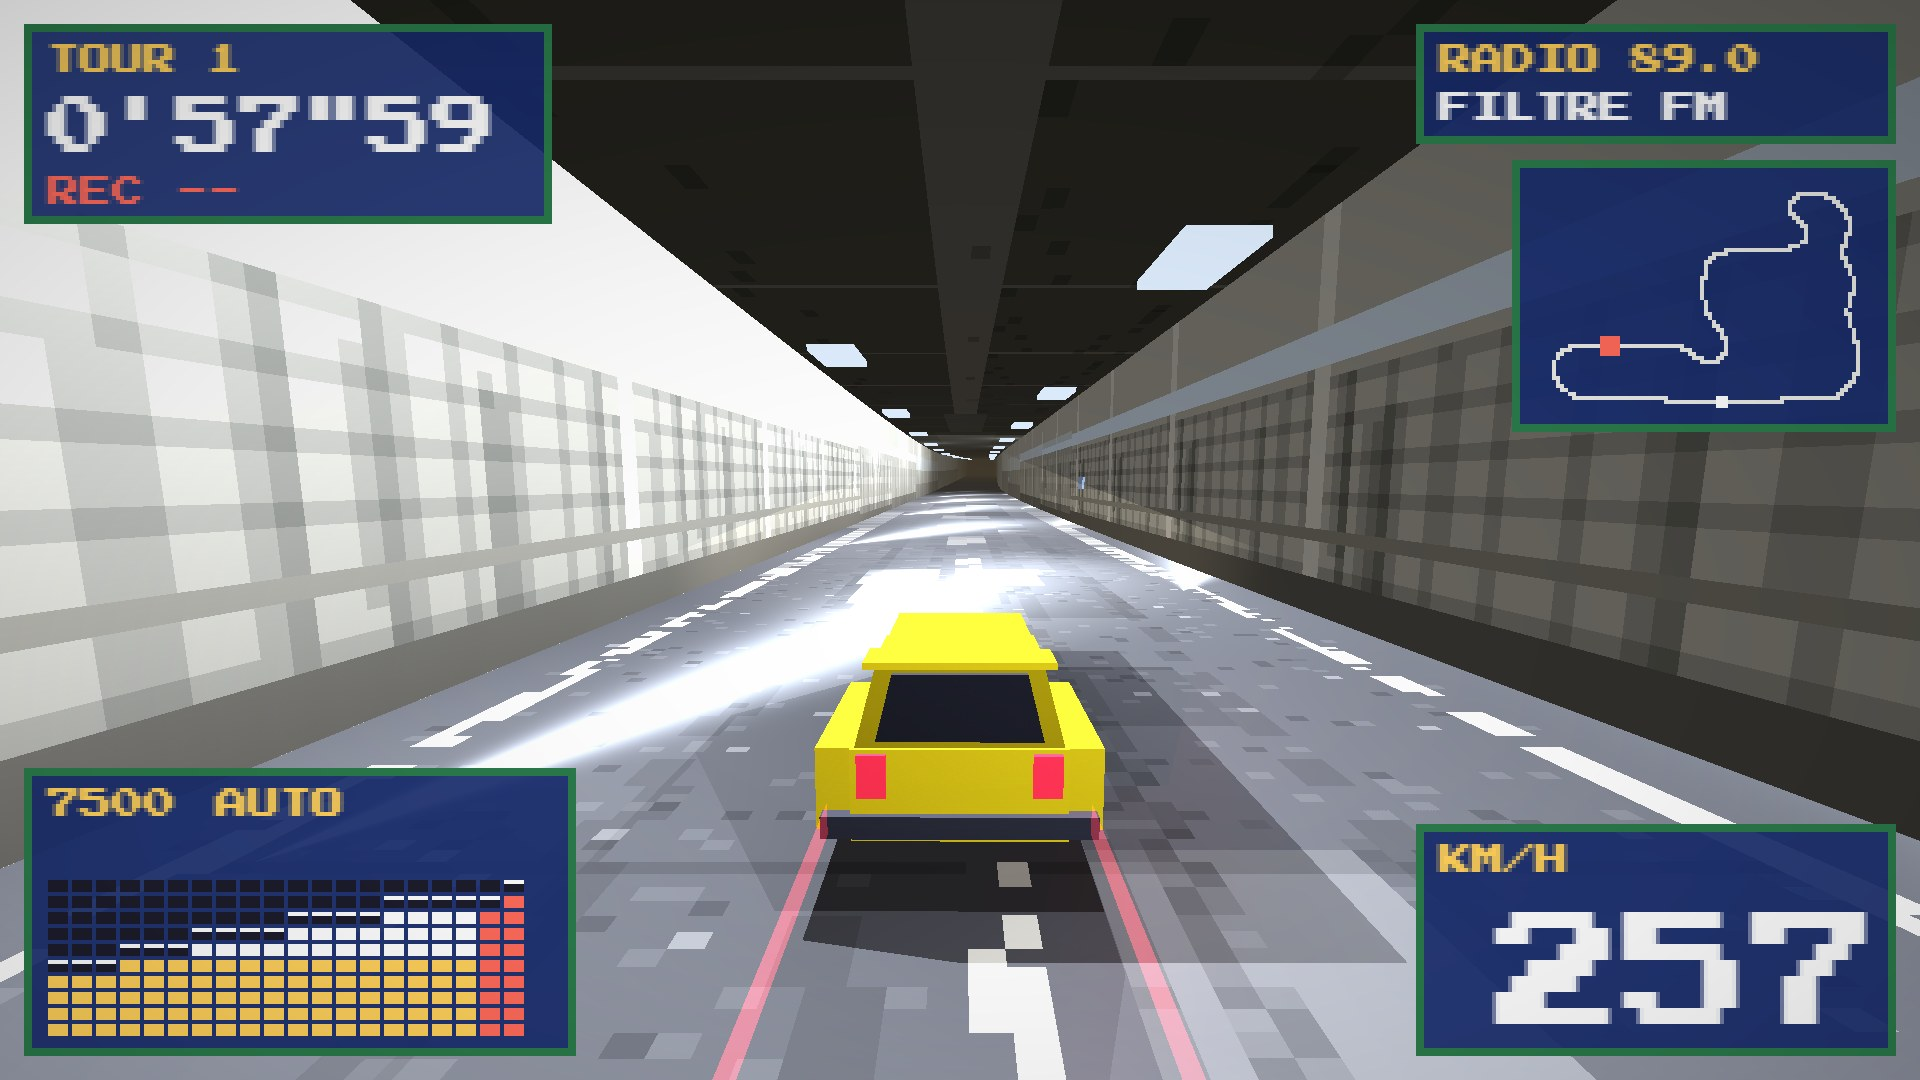
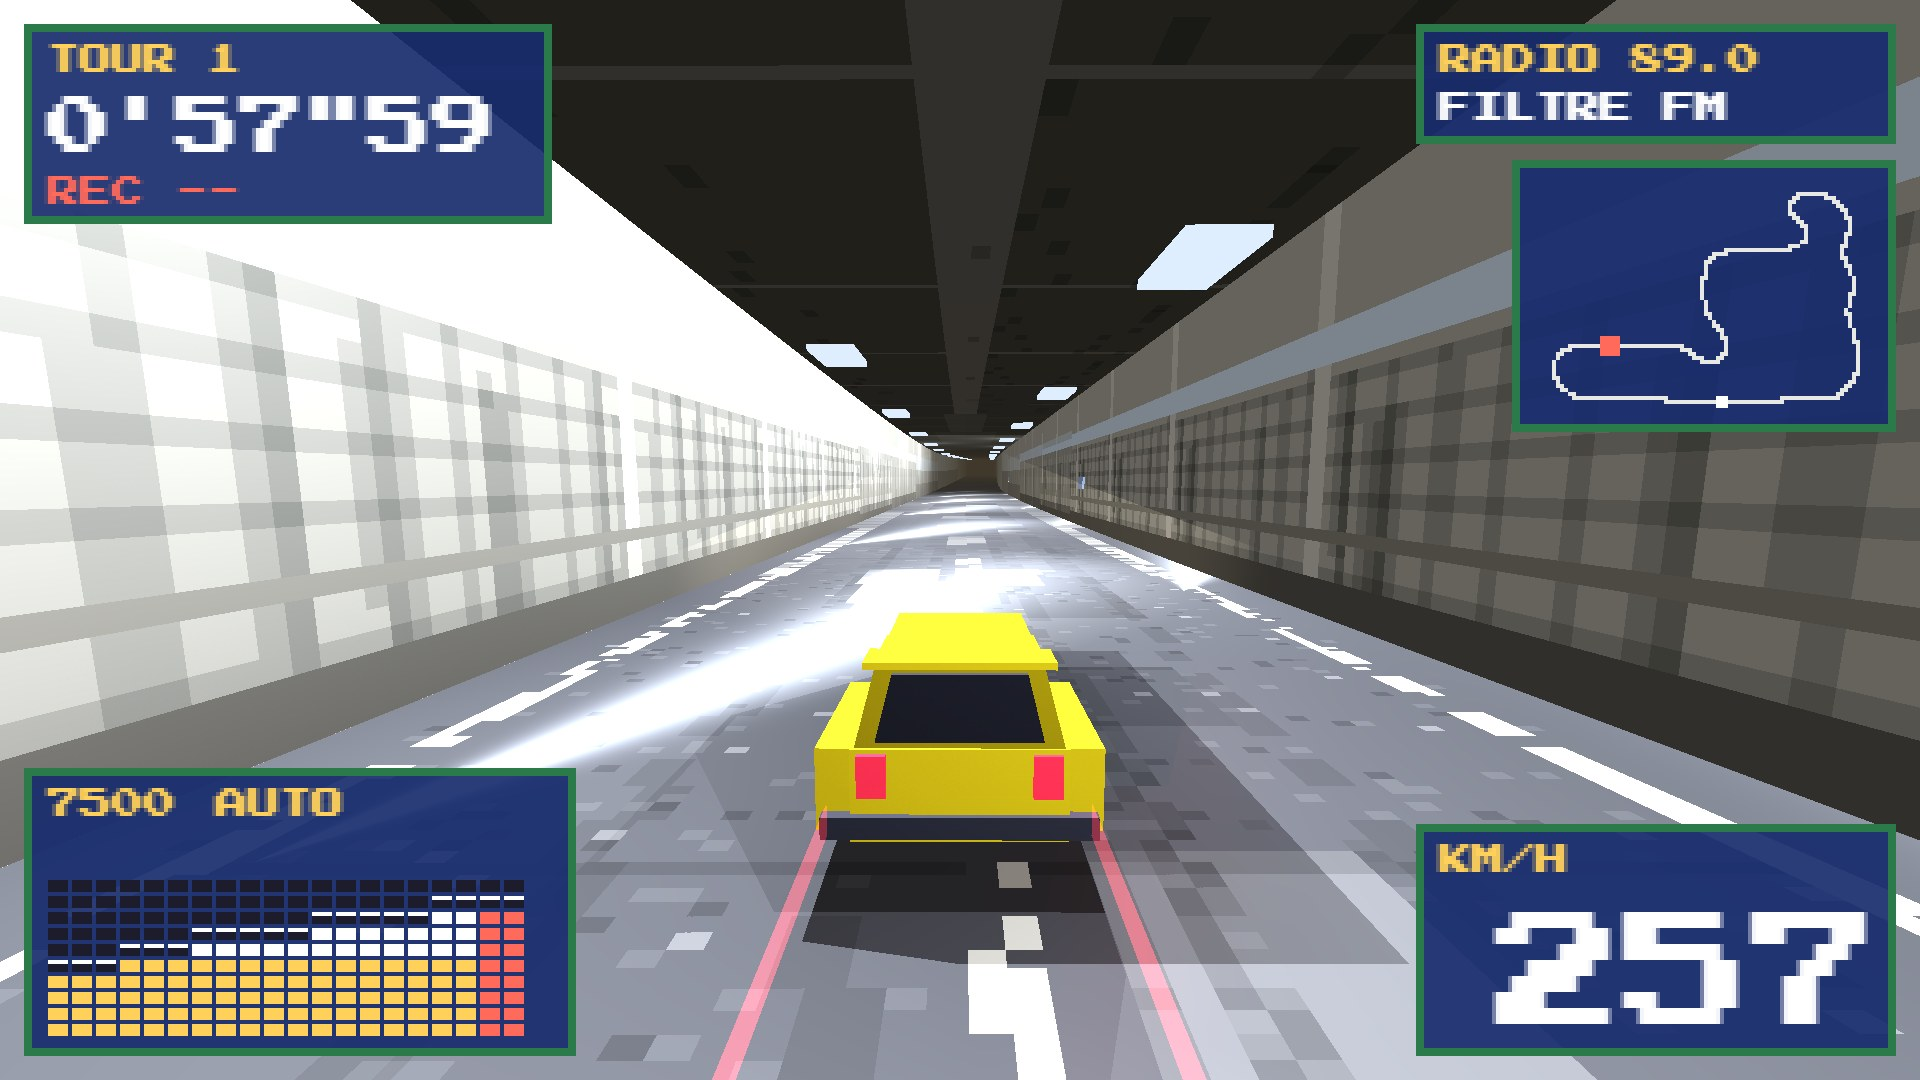
Style net : la scène et le HUD sans aucun effet de passe finale (vignette retirée), captures refaites

diff --git a/game.js b/game.js
@@ -30,7 +30,7 @@
   // pre / fx / fin : GLSL de la passe finale — avant lecture (u = coordonnée), sur la couleur c de la scène, puis après le HUD. Aucun flou, aucun halo.
   const STYLES = {
     fin: { h: 540, fx: 'c = floor(c * 64. + bayer(v / px) * .35 + .5) / 64.;' },
-    net: { h: 0 },
+    net: { h: 0, brut: 1 }, // la scène et le HUD, rien d'autre : pas même la vignette
     encre: { h: 0, z: 1, fx: 'c = aplat(pow(c, vec3(.72)), 6.) + .03; c *= 1. - .95 * smoothstep(.007, .018, arete(u, px * 1.5));' },
     demiteinte: { h: 540, fx: `float l = sqrt(lum(c)) * 3.2, i = min(floor(l), 2.); vec2 g = mat2(.707, -.707, .707, .707) * v * ecr / (ecr.y / 200.);
       float pt = smoothstep(-.08, .08, l - i - length(fract(g) - .5) * 1.414);
@@ -118,7 +118,7 @@
         vec2 u = v; ${ST.pre || ''}
         vec3 c = texture2D(t, u).rgb; ${ST.fx || ''}
         vec4 hd = texture2D(h, u); c = mix(c, hd.rgb, hd.a); ${ST.fin || ''}
-        vec2 d = v - vec2(.5, .42); c *= 1. - .35 * dot(d, d);
+        ${ST.brut ? '' : 'vec2 d = v - vec2(.5, .42); c *= 1. - .35 * dot(d, d);'}
         gl_FragColor = vec4(c, 1.);
       }`;
   }

diff --git a/styles.html b/styles.html
@@ -30,7 +30,7 @@ Captures 1920 × 1080 (clic = taille réelle), pilote auto, mêmes instants d'un
   const STYLES = [
     ['actuel', 'Témoin : 270 lignes, 32 niveaux tramés, flou de vitesse et halo.', '3,9 ms'],
     ['fin', 'Le même en 540 lignes, 64 niveaux, trame à peine visible.', '3,7 ms'],
-    ['net', 'Low poly en pleine résolution, aplats bruts, ni trame ni quantification.', '4,4 ms'],
+    ['net', 'Sans aucun effet : la scène en pleine résolution et le HUD, rien d'autre.', '4,4 ms'],
     ['encre', 'Pleine résolution, ombres relevées en paliers, contours noirs sur silhouettes et arêtes.', '4,1 ms'],
     ['demiteinte', '540 lignes, points de trame d\'impression, 4 encres + 1 encre de signal par carte.', '3,6 ms'],
     ['cathodique', '360 lignes, lignes de balayage, masque RVB, légère courbure ; pixels nets.', '4,0 ms'],
